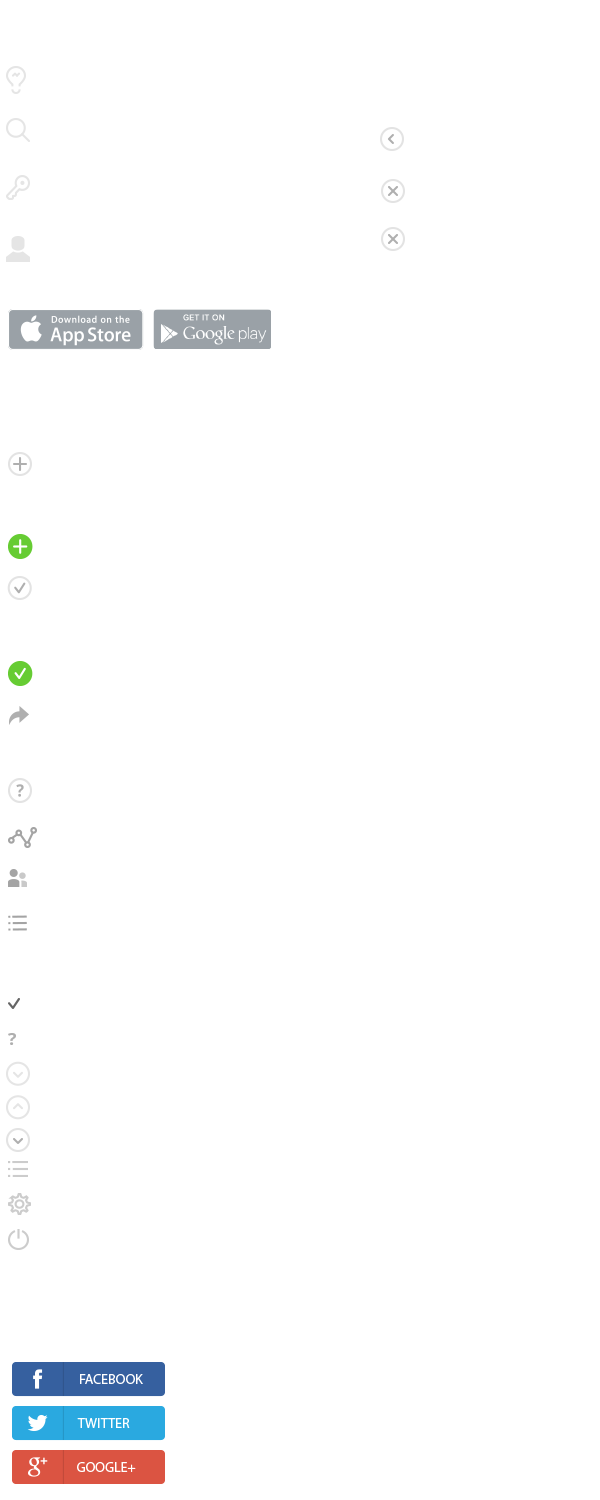
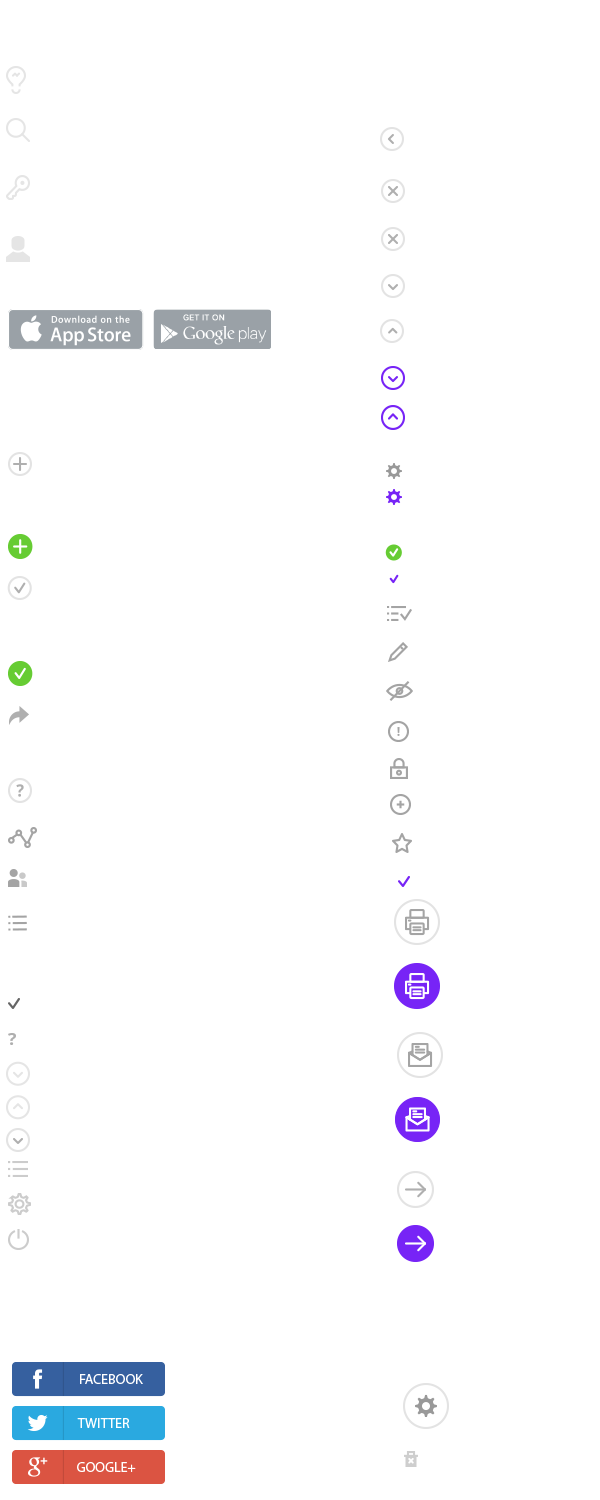
styles

diff --git a/src/AppBundle/Resources/public/less/style.less b/src/AppBundle/Resources/public/less/style.less
@@ -511,11 +511,11 @@ ul.filter{
 }
 
 .up-icon{
-  background: url('../images/images.png') no-repeat -7px -706px;
+  background: url('../images/images.png') no-repeat -380px -318px;
 }
 
 .down-icon{
-  background: url('../images/images.png') no-repeat -7px -706px;
+  background: url('../images/images.png') no-repeat -380px -273px;
 }
 
 .ok-icon{
